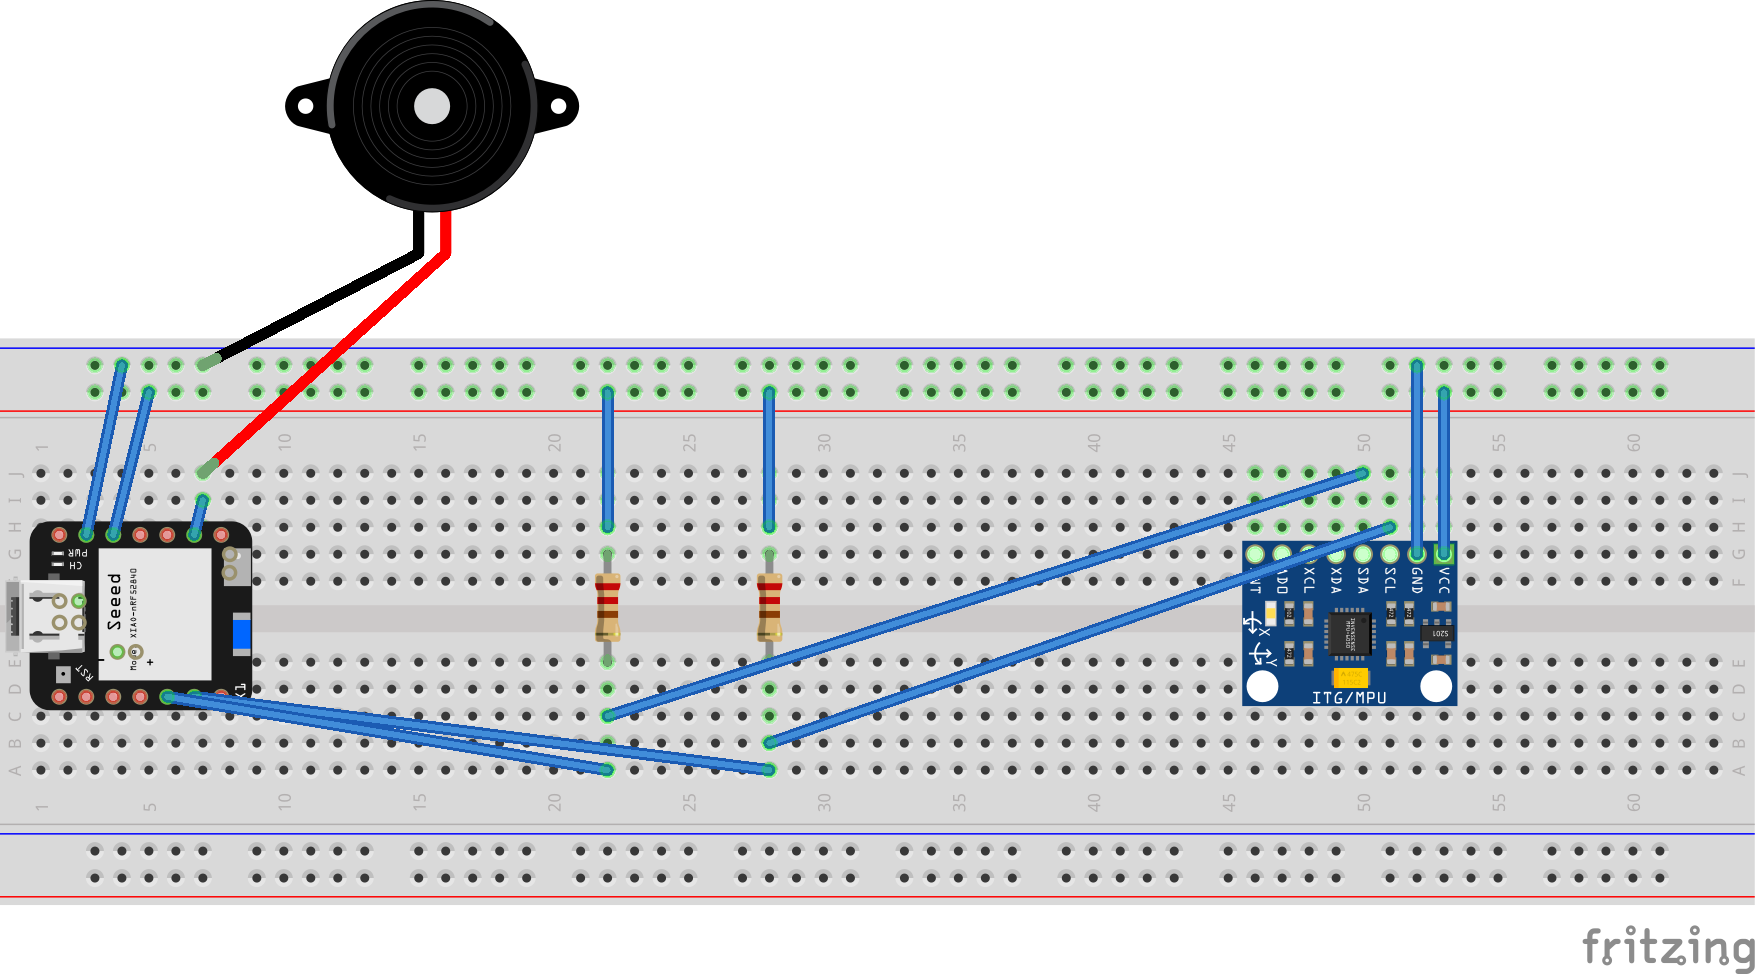
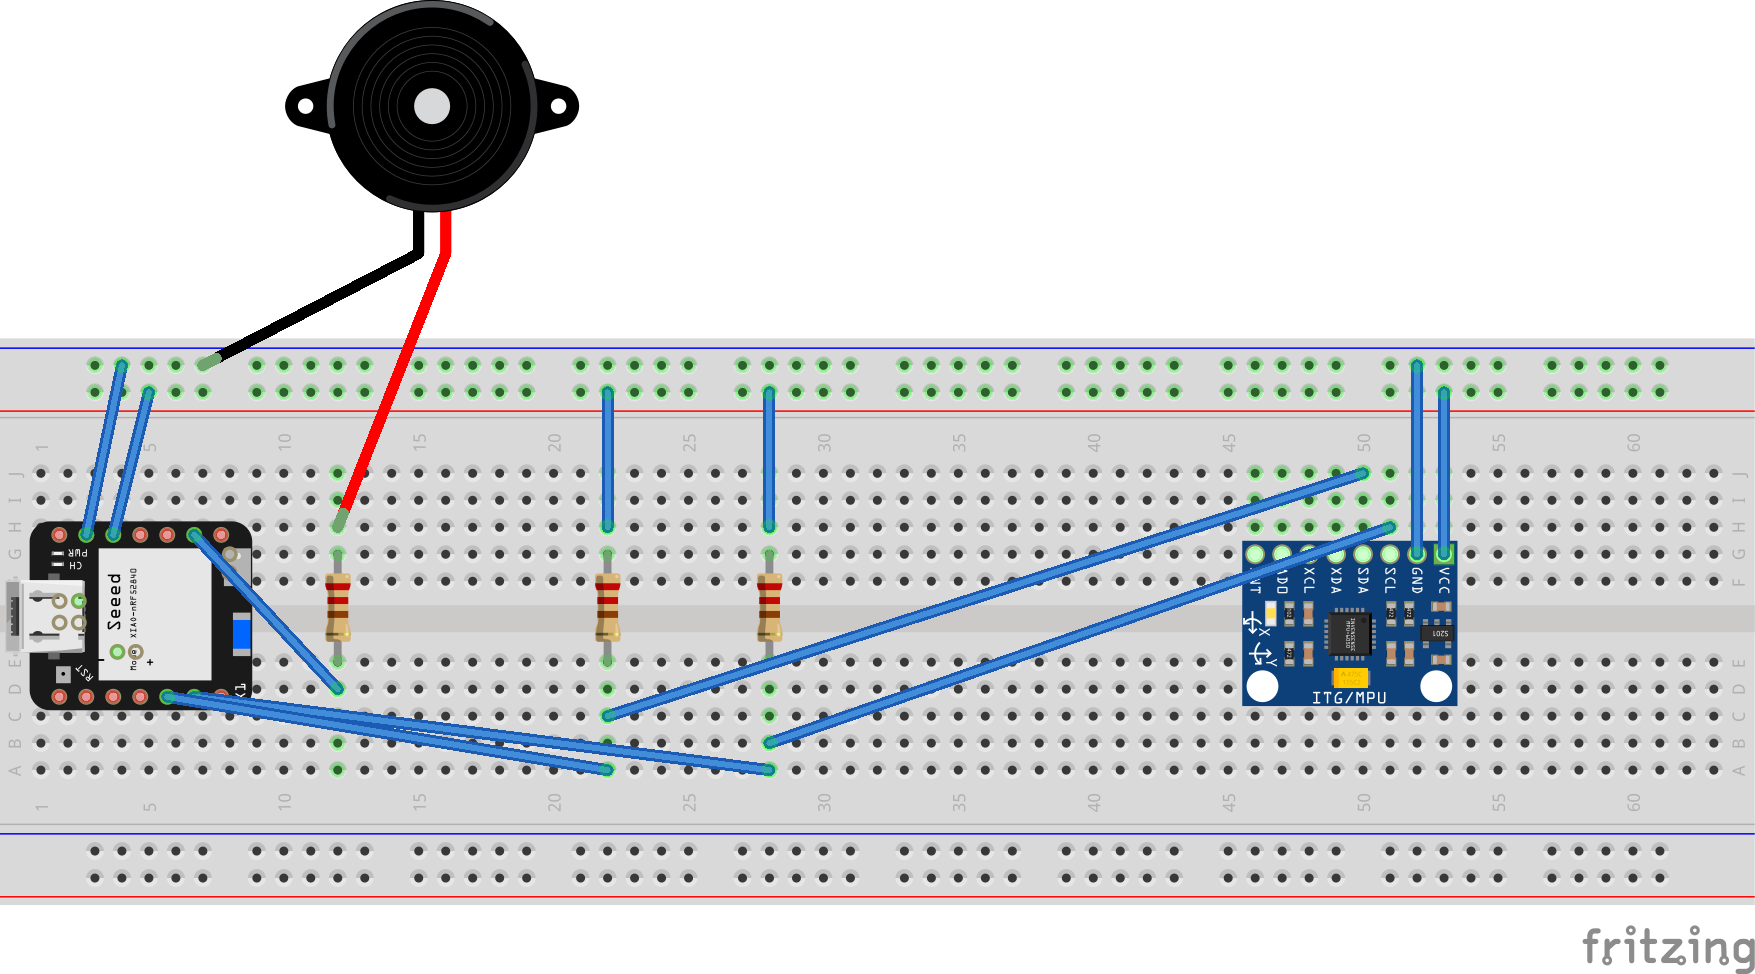
readme: update fritzing image

diff --git a/readme.md b/readme.md
@@ -126,10 +126,13 @@ will pull the signal down if needed.
 
 Everything runs on the 3.3-volt level of the MCU.
 
-The piezo speaker is directly connected to GPIO pin 7. It drains 15mA and is running
-with powered with a 1khz pwm signal, when triggered.
+The piezo speaker is connected to GPIO pin 7.
+We use a 100 Ohms resistor to protect ti GPIO. So the piezo speaker
+drains 3.3v/100 Ohms = 33mA of current.
+It's powered with a 1khz pwm signal, when triggered.
 
-Below fritzing image is demonstrating the wiring. The parts are aliases though, we use different ones
+Below the fritzing image is demonstrating the wiring.
+The parts are aliases though, we use different ones, 
 but the wiring is exactly the same.
 
 ![fritzing](images/nerd-neck-fritzing.png)
